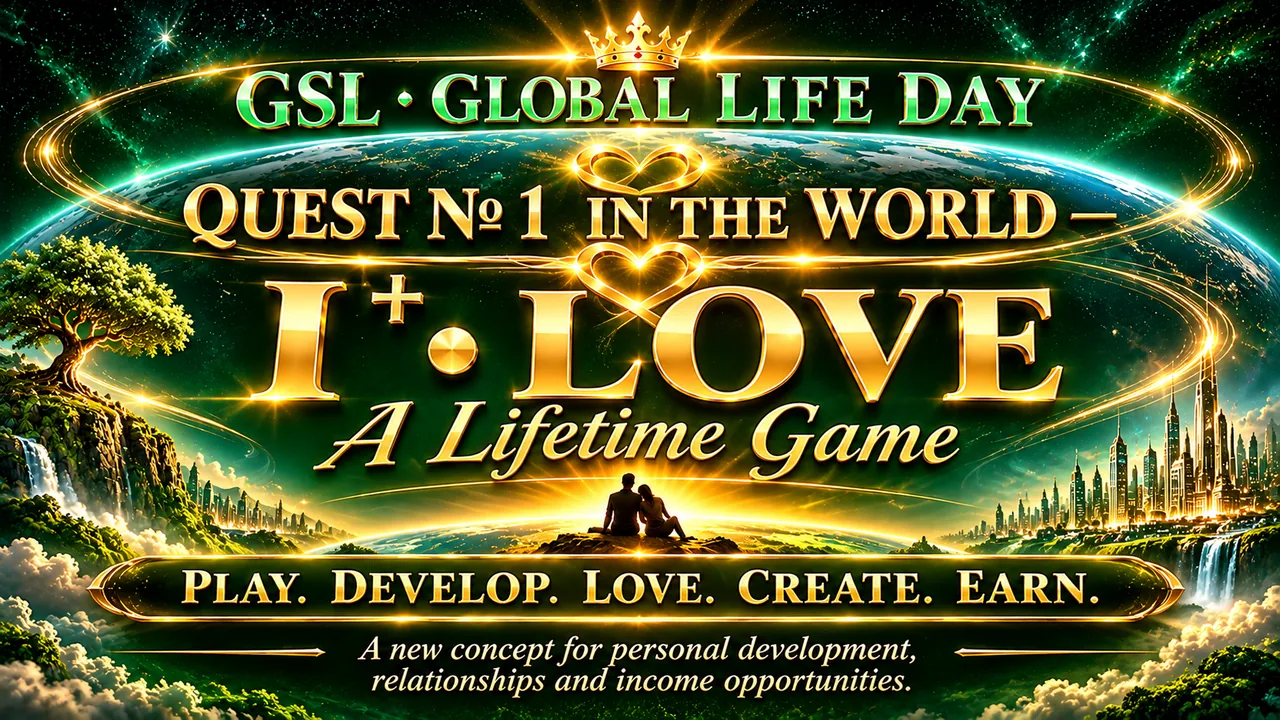
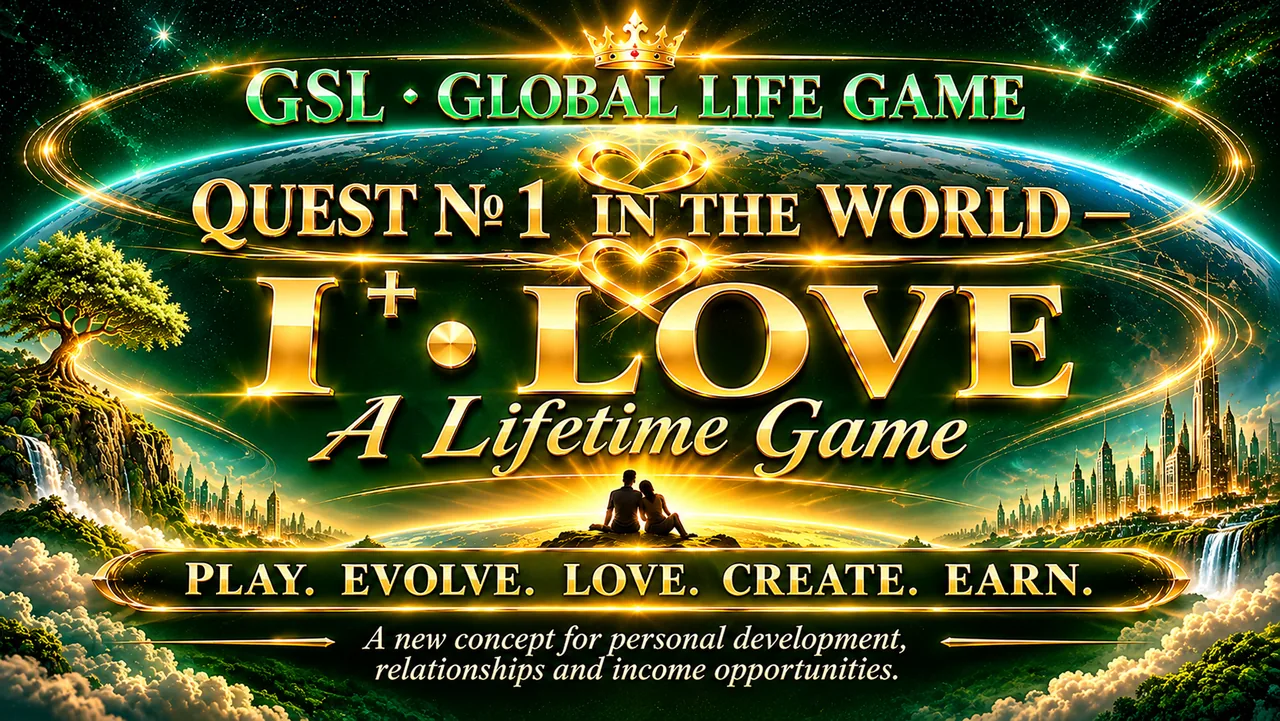
148: вход квеста — картинка на весь верх без краёв, одно жёлтое золото до выбора части; плюс в степени целиком; новые картинки ua и en

diff --git a/js/quest/quest.css b/js/quest/quest.css
@@ -26,12 +26,18 @@
 
 .quest-mark__plus {
   display: inline-block;
+  position: relative;
+  top: -0.42em;
   margin-left: 0.04em;
   font-family: var(--f-body);
-  font-size: 1.05em;
+  font-size: 0.66em;
+  font-style: normal;
   font-weight: 800;
-  line-height: 0;
-  vertical-align: 0.62em;
+  line-height: 1;
+  background: var(--g-gold-text);
+  -webkit-background-clip: text;
+  background-clip: text;
+  color: transparent;
 }
 
 .quest-mark__dot {
@@ -60,15 +66,36 @@
   line-height: 1.2;
 }
 
-/* Баннер приветствия */
+/* Баннер приветствия — на всю ширину и верх экрана, без рамки и краёв: снизу и по бокам растворяется в фоне,
+   как воздух (владелец 18.11.2026: «чтобы закрывала полностью всю верхушку экрана… без краёв») */
+.onboarding.quest-scene {
+  padding-top: 0;
+}
+
 .quest-banner {
   display: block;
-  width: 100%;
+  width: 100vw;
+  max-width: none;
   height: auto;
-  margin: 0 auto var(--sp-5, 20px);
-  border-radius: var(--r-lg, 18px);
-  border: 1px solid rgba(var(--rgb-gold), 0.45);
-  box-shadow: 0 0 0 1px rgba(31, 155, 106, 0.25), 0 12px 40px rgba(6, 26, 19, 0.7), 0 0 36px rgba(var(--rgb-gold), 0.18);
+  margin: 0 0 var(--sp-4, 16px) calc(50% - 50vw);
+  -webkit-mask-image: linear-gradient(180deg, #000 0%, #000 72%, transparent 100%),
+    linear-gradient(90deg, transparent 0%, #000 6%, #000 94%, transparent 100%);
+  -webkit-mask-composite: source-in;
+  mask-image: linear-gradient(180deg, #000 0%, #000 72%, transparent 100%),
+    linear-gradient(90deg, transparent 0%, #000 6%, #000 94%, transparent 100%);
+  mask-composite: intersect;
+}
+
+/* На широком экране картинка — до ширины окна приложения на компьютере, чтобы шапка помещалась без прокрутки */
+@media (min-width: 900px) {
+  .quest-banner {
+    width: min(100vw, 1100px);
+    margin-left: auto;
+    margin-right: auto;
+    position: relative;
+    left: 50%;
+    transform: translateX(-50%);
+  }
 }
 
 .quest-slogan {
@@ -87,6 +114,7 @@
 /* Изумрудно-золотая сцена: фон на весь экран за содержимым */
 .quest-scene {
   position: relative;
+  isolation: isolate;   /* свой слой: фон сцены (z-index: -1) рисуется над фоном страницы, а не под ним */
 }
 
 .quest-scene::before {
@@ -111,6 +139,7 @@
   color: rgba(236, 226, 196, 0.75);
 }
 
+/* На выборе части картинка та же, без краёв */
 .quest-banner--small {
-  max-width: 420px;
+  margin-bottom: var(--sp-3, 12px);
 }

diff --git a/styles/side-man.css b/styles/side-man.css
@@ -7,9 +7,12 @@
 
    Золото — снимок металла «Кванта» (planner/web/img/gold/n01.jpg, его --gold-gradient; здесь — копия
    assets/textures/gold.jpg), встроен прямо в стили, чтобы работал без интернета. Фон — графит почти чёрный, как у
-   «Кванта» и GoldenFit (#07070A / #070709): на чёрном жёлтое золото светится, а не желтеет. */
+   «Кванта» и GoldenFit (#07070A / #070709): на чёрном жёлтое золото светится, а не желтеет. 
+   Нейтральные экраны квеста «Я⁺ • Любовь» (вход, выбор части — js/quest/) берут те же значения: часть ещё не
+   выбрана, золото — жёлтое, как на картинке приветствия (владелец 18.11.2026). */
 
-:root[data-side="man"] {
+:root[data-side="man"],
+:root:has(.quest-scene) {
   --c-bg: #0a0a0d;
   --c-bg-raise: #141317;
   --c-surface: rgba(255, 240, 200, 0.04);
@@ -65,7 +68,8 @@
 /* ЯРКОЕ ЗОЛОТО И СВЕТЯЩАЯСЯ КРОМКА КНОПОК — значения мужской (золотой) части (владелец 18.11.2026: «золото тусклое, обводки
    тёмные — сделай светящуюся, как в Кванте»). Сами правила — общие, в styles/components/button.css; у женской части те же
    токены в розовом золоте (tokens.css). Кромка — перелив --pult-rim «Кванта». */
-:root[data-side="man"] {
+:root[data-side="man"],
+:root:has(.quest-scene) {
   /* Заливка золотых кнопок — вырезка из фотографии золота «Кванта» (assets/textures/gold.jpg = planner/web/img/gold/n01.jpg) */
   --plate-img: var(--g-man-gold-img);
   --on-dark: #fbe7a1;   /* буквы на тёмных кнопках — цвета кромки, яркие; контур — --sh-cut */

diff --git a/styles/base.css b/styles/base.css
@@ -201,17 +201,22 @@ img, svg {
   white-space: nowrap;
 }
 
-/* Плюс в степени — крупный и жирный, как буква (владелец 18.11.2026: «везде, где есть этот значок плюс, он должен
-   быть в степени и массивный, заметный… такой как буква») */
+/* Плюс в степени — у верхнего края букв, жирный и заметный (владелец 18.11.2026: «в степени и массивный… чтобы
+   хорошо читался»). У знака своё золото и обычная высота строки: с нулевой высотой золото обрезало его наполовину. */
 .brand__plus {
   display: inline-block;
-  margin-left: 0.04em;
+  position: relative;
+  top: -0.42em;
+  margin-left: 0.05em;
   font-family: var(--f-body);
-  font-size: 1.05em;
+  font-size: 0.66em;
   font-style: normal;
   font-weight: 800;
-  vertical-align: 0.62em;
-  line-height: 0;
+  line-height: 1;
+  background: var(--g-gold-text);
+  -webkit-background-clip: text;
+  background-clip: text;
+  color: transparent;
 }
 
 /* Раскрывающийся блок — всегда со стрелкой «развернуть / свернуть» (владелец 14.11.2026: «открывается раздел, а

diff --git a/js/texts/man/en.js b/js/texts/man/en.js
@@ -406,8 +406,8 @@ export default {
     mark: 'I⁺ • Love',
     qOpen: '“',
     qClose: '”',
-    bannerAlt: 'GSL • Global Life Game. Quest № 1 in the world — I⁺ • Love. A lifetime game. Play. Develop. Love. Create. Earn. A new concept for personal development, relationships and income opportunities.',
-    slogan: 'Play. Develop. Love. Create. Earn.',
+    bannerAlt: 'GSL • Global Life Game. Quest № 1 in the world — I⁺ • Love. A lifetime game. Play. Evolve. Love. Create. Earn. A new concept for personal development, relationships and income opportunities.',
+    slogan: 'Play. Evolve. Love. Create. Earn.',
   },
   settings: {
     title: 'Tuning',

diff --git a/js/texts/woman/en.js b/js/texts/woman/en.js
@@ -405,8 +405,8 @@ export default {
     mark: 'I⁺ • Love',
     qOpen: '“',
     qClose: '”',
-    bannerAlt: 'GSL • Global Life Game. Quest № 1 in the world — I⁺ • Love. A lifetime game. Play. Develop. Love. Create. Earn. A new concept for personal development, relationships and income opportunities.',
-    slogan: 'Play. Develop. Love. Create. Earn.',
+    bannerAlt: 'GSL • Global Life Game. Quest № 1 in the world — I⁺ • Love. A lifetime game. Play. Evolve. Love. Create. Earn. A new concept for personal development, relationships and income opportunities.',
+    slogan: 'Play. Evolve. Love. Create. Earn.',
   },
   settings: {
     title: 'Tuning',

diff --git a/version.js b/version.js
@@ -1,4 +1,4 @@
 /* НОМЕР СБОРКИ — одно место на всё приложение. Каждая выкладка поднимает его на единицу: по нему
    работник (sw.js) понимает, что пора скачать новые файлы, а настройки показывают версию.
    Файл обычный, не модуль: его читают и страница, и работник (importScripts). */
-self.GSL_VERSION = '147';
+self.GSL_VERSION = '148';

diff --git a/js/quest/quest.js b/js/quest/quest.js
@@ -27,6 +27,6 @@ export function questBanner(cls = '') {
     class: `quest-banner ${cls}`.trim(),
     src: `assets/quest/banner-${lang}.webp`,
     alt: t('quest.bannerAlt'),
-    width: '1280', height: '720', decoding: 'async',
+    width: '1280', height: '720', fetchpriority: 'high',
   });
 }
